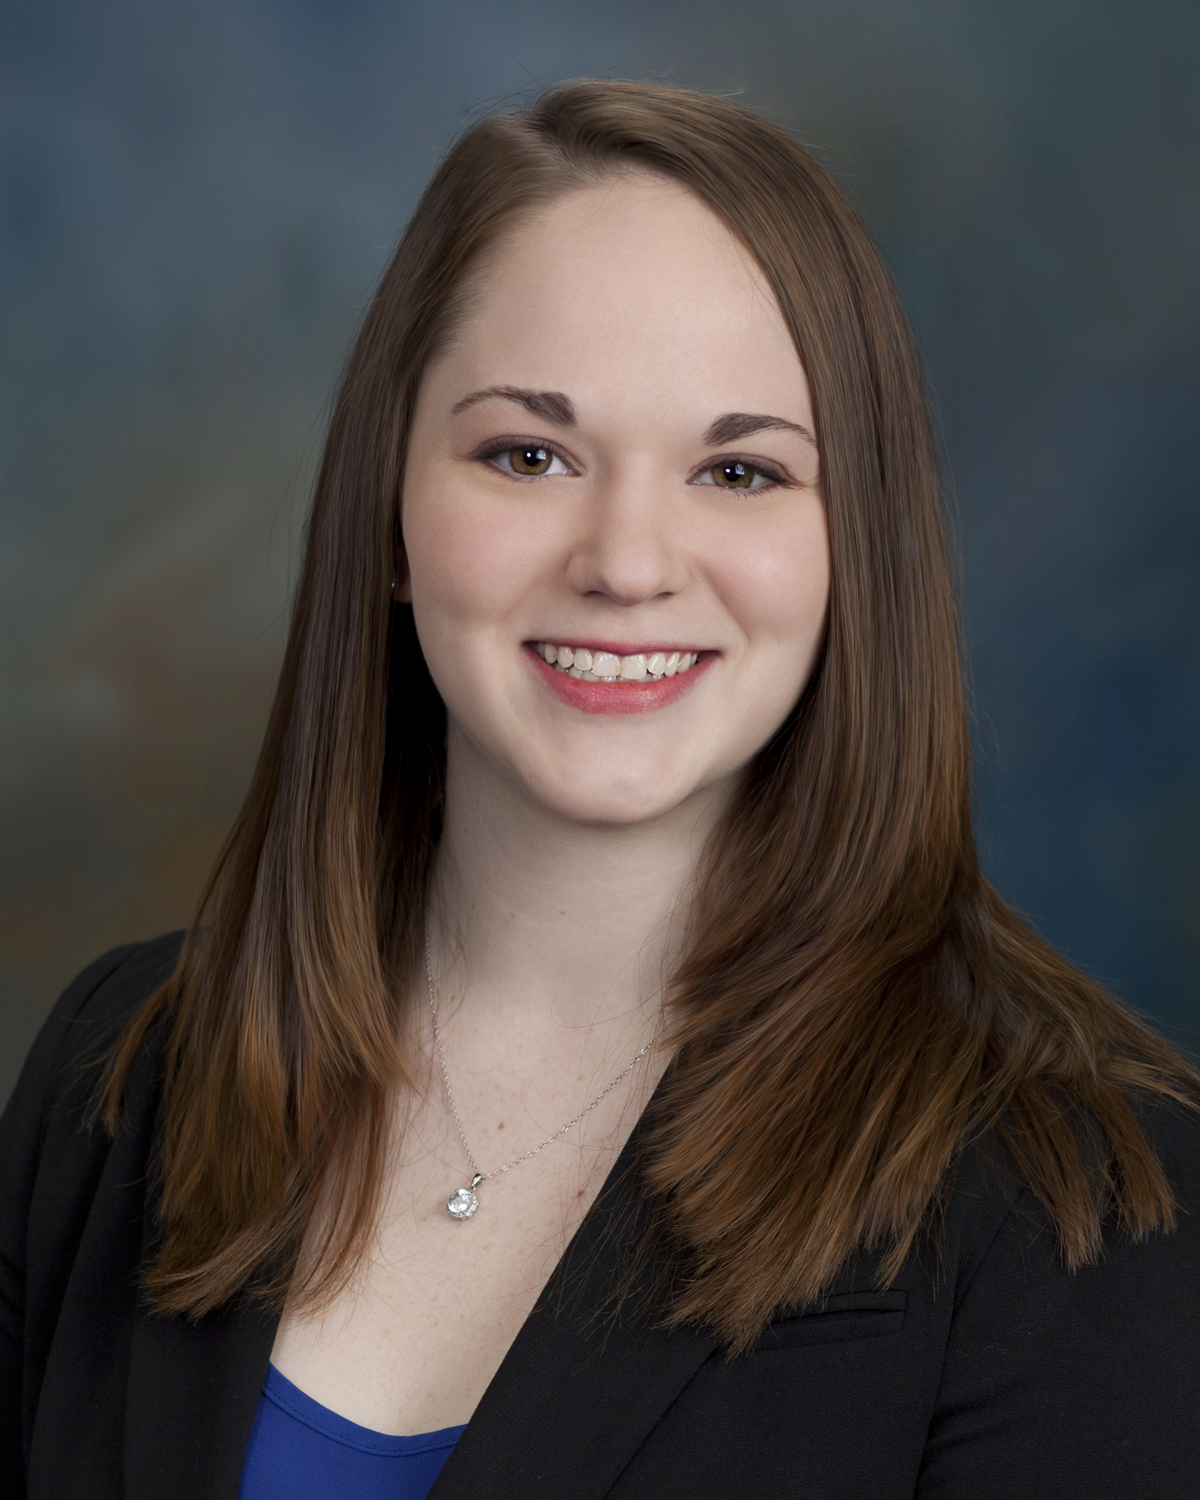
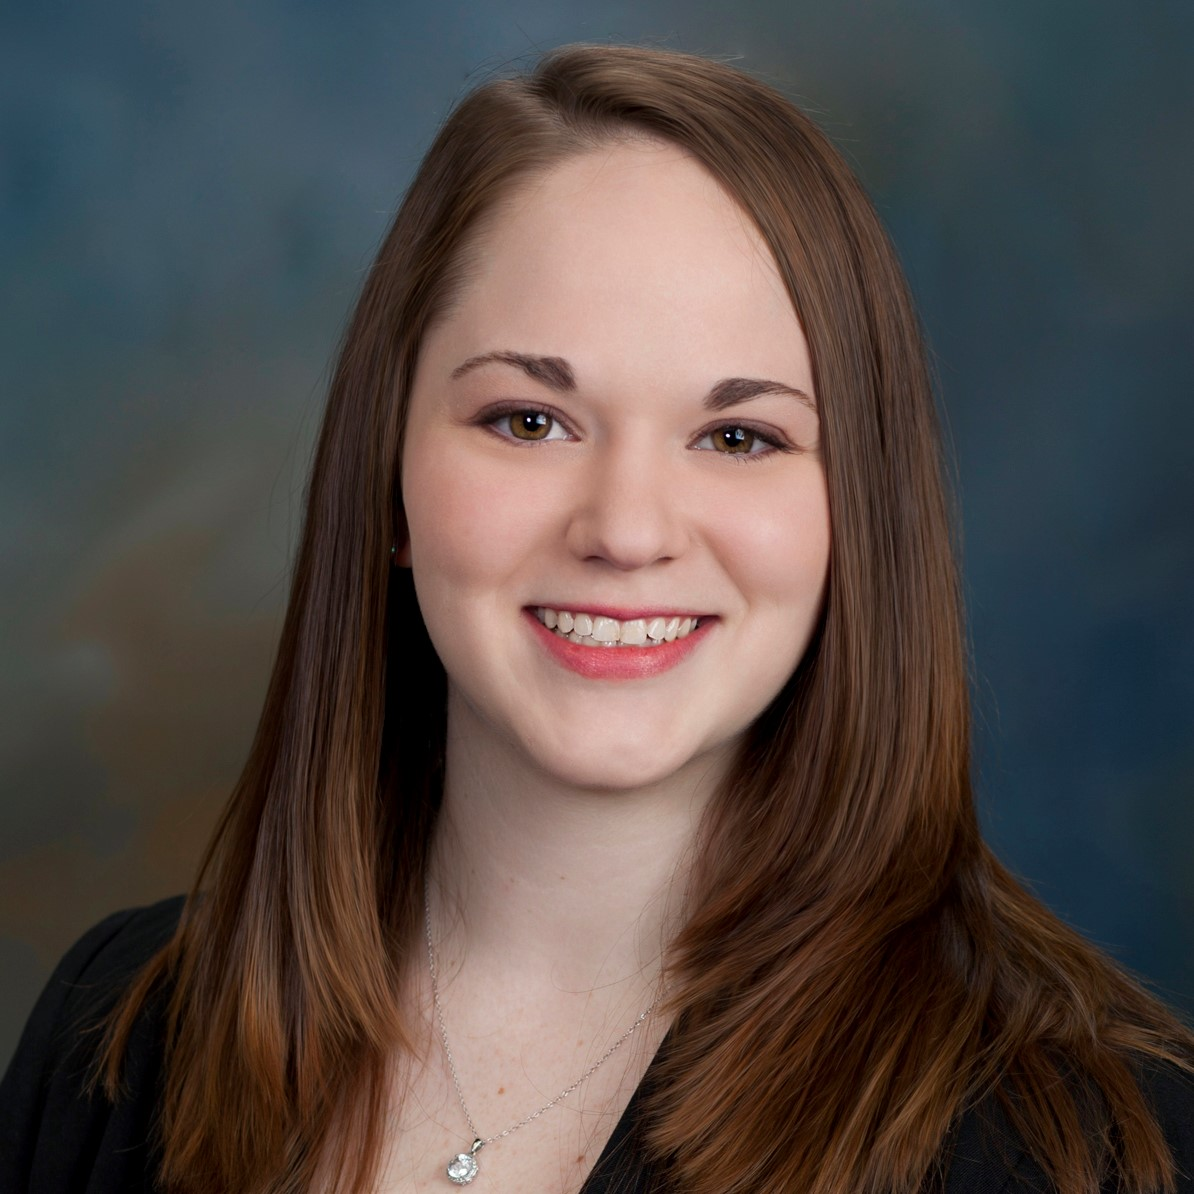
changed headshot and edited spacing on about page

diff --git a/about.html b/about.html
@@ -51,31 +51,37 @@
             <li>Bootstrap</li>
           </ul>
         </div>
-        <div class="col-md-9 mt-4">
+        <div class="col-md-9 mt-4 background">
           <h2>Background</h2>
           <p>
             My education began in history and political science, which led me to
             teaching for the last six years. During my time in the classroom I
             discovered my love of technolgy which lead me to learing about
-            web-developemnt. My goal is to now find a job that will allow me to
+            web-development. My goal is to now find a job that will allow me to
             gain more expirence and grow my skills as a developer.
           </p>
-          <h2 class="mt-4">Education</h2>
+          <h2 class="mt-3">Education</h2>
           <div class="education">
             <div>
-              BS, History<br />
-              <em>Texas A&M University</em>
+              <p>
+                BS, History<br />
+                <em>Texas A&M University</em>
+              </p>
             </div>
             <div>
-              MS, Emergency Management<br />
-              <em>Georgetown University</em>
+              <p>
+                MS, Emergency Management<br />
+                <em>Georgetown University</em>
+              </p>
             </div>
             <div>
-              Credential: Social Studies 6-12<br />
-              <em>Arkansas Professional Pathway to Educator Licensure</em>
+              <p>
+                Credential: Social Studies 6-12<br />
+                <em>Arkansas Professional Pathway to Educator Licensure</em>
+              </p>
             </div>
           </div>
-          <h2 class="mt-4">Resume</h2>
+          <h2 class="mt-3">Resume</h2>
           <div class="mb-3">
             <a
               href="#"
@@ -88,7 +94,7 @@
       </div>
     </div>
     <p class="text-center m-3">
-      This site was coded by Layna Moore and is <a href="#">open-sourced</a>.
+      This site was coded by Layna Moore and is <a href="#">open-source</a>.
     </p>
   </body>
 </html>

diff --git a/styles/portfolio.css b/styles/portfolio.css
@@ -28,8 +28,7 @@ h2 {
   font-size: 64px;
   color: var(--dark-color);
 }
-p,
-li {
+p {
   font-weight: normal;
   font-size: 16px;
   color: var(--dark-color);
@@ -118,9 +117,18 @@ a:hover {
   font-size: 16px;
   line-height: 1.5;
   text-align: center;
+  color: var(--dark-color);
 }
 .education {
   display: flex;
   justify-content: space-between;
   text-align: center;
+}
+.background h2 {
+  font-size: 30px;
+}
+.background p {
+  line-height: 1.5;
+  opacity: 70%;
+  font-size: 14px;
 }
